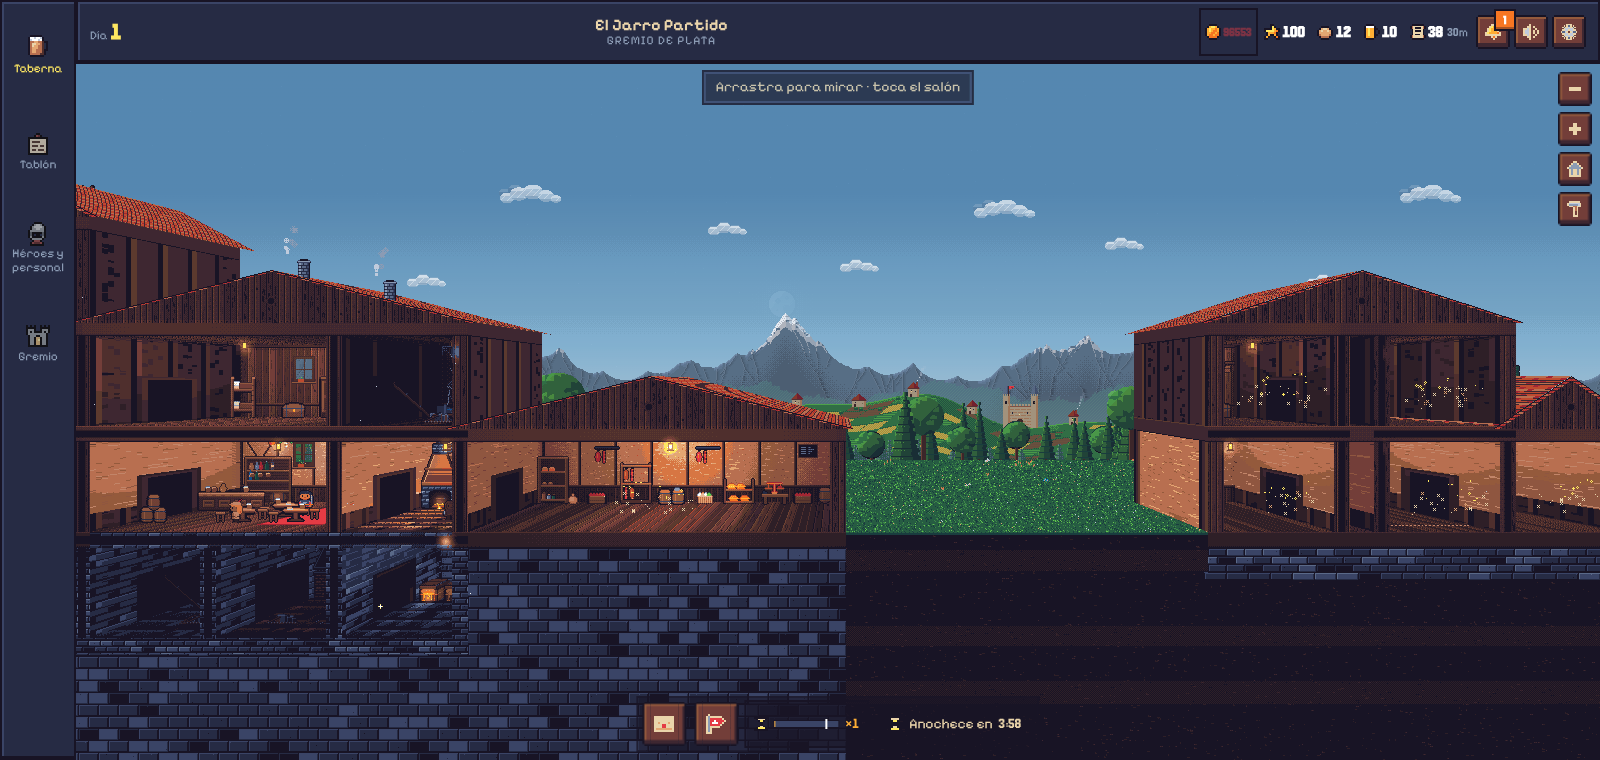
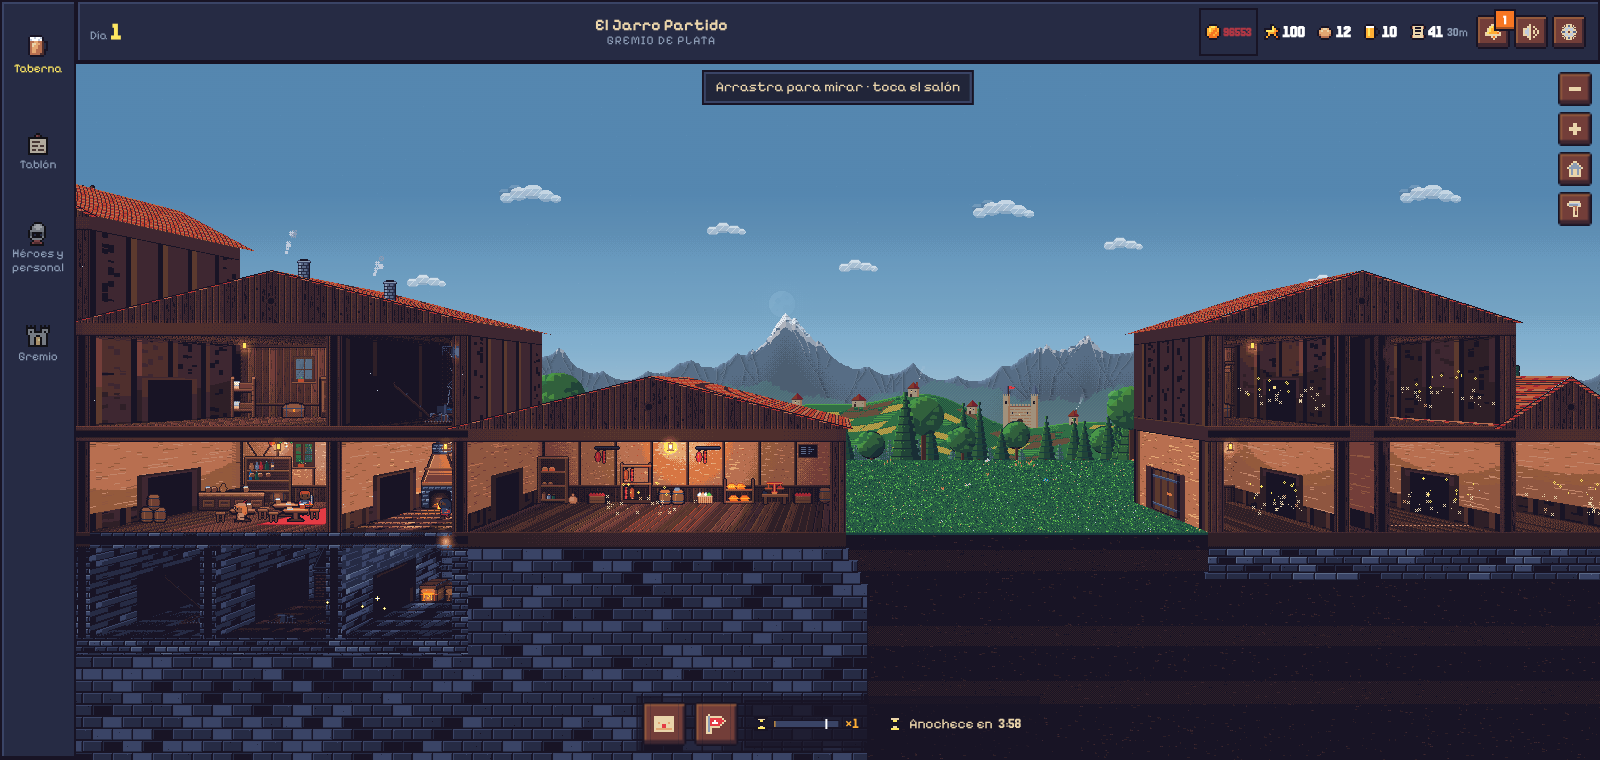
Anexo: la roca asoma por los lados del edificio y puertas al jardín
- La roca de debajo del edificio sale por los dos lados en escalones, cada
  hilada algo más ancha, para que se vea que lo asienta.
- Punto 2: la sala de la planta baja que da al jardín tiene puerta por dentro
  y por fuera; con escalera al borde, en su rellano; sin rellano abajo, la
  escalera tapa el paso y no hay puerta (como `opens` en `cutOff`).

Claude-Session: https://claude.ai/code/session_011Wau2CUcks799q681YrKG8

diff --git a/src/world/rooms/RoomScene.ts b/src/world/rooms/RoomScene.ts
@@ -10,6 +10,7 @@
 import { tinyDigits } from '../../art/digits';
 import { GRASS_FRAMES, grassTuft, type TuftKind } from '../../art/grass';
 import { Rng } from '../../core/rng';
+import { inGarden, isShaft } from '../../core/rooms';
 import {
   BufferGeometry,
   CanvasTexture,
@@ -1267,6 +1268,11 @@ export class RoomScene {
           ),
           sides: { left: [left], right: [right] },
           floor: s.floor,
+          // En el rellano de la planta baja de una escalera al borde, la puerta al jardín.
+          garden: {
+            left: s.floor === 0 && s.steps && inGarden(b, s.s - 1),
+            right: s.floor === 0 && s.steps && inGarden(b, s.s),
+          },
         },
       );
       const inner = interior(s.rect);
@@ -1446,6 +1452,9 @@ export class RoomScene {
     const free = (c: number) =>
       room.floor > 0 && !b.rooms.some((o) => this.covers(o, c, room.floor - 1));
     const back = backWall(room, r.w, r.h, this.salonLook());
+    // Puerta al jardín en la planta baja, si no hay en medio una escalera sin rellano (que tapa
+    // el paso; con rellano, la puerta va en ella). Como `opens` en `cutOff` (`core/rooms.ts`).
+    const gate = (c: number, x: number) => room.floor === 0 && inGarden(b, c) && !isShaft(b, x);
     // Lo tocable que se ha pintado en la pared (en sus píxeles), pasado al mundo.
     const live = room.level > 0 && !(room.works && room.works.kind !== 'extend');
     const tx = r.w / back.w;
@@ -1467,6 +1476,10 @@ export class RoomScene {
       sides,
       floor: room.floor,
       door: room.type === 'recibidor' ? room.level : undefined,
+      garden: {
+        left: gate(room.col - 1, room.col),
+        right: gate(room.col + room.w, room.col + room.w),
+      },
       hang: { left: free(room.col), right: free(room.col + room.w - 1) },
       room,
     });
@@ -1647,6 +1660,8 @@ export class RoomScene {
       floor: number;
       /** La puerta de la calle (en el recibidor), con su nivel. */
       door?: number;
+      /** La puerta al jardín de la planta baja, de cada lado. */
+      garden?: { left: boolean; right: boolean };
       /** Sin sala debajo del hueco de cada lado (en voladizo). */
       hang?: { left: boolean; right: boolean };
       /** La sala (para los acabados de sus lados). */
@@ -1683,7 +1698,7 @@ export class RoomScene {
         r.h,
         doors(o.sides.left),
         `${seed}i`,
-        o.door !== undefined ? [0] : [],
+        o.door !== undefined || o.garden?.left ? [0] : [],
         o.door,
         o.room,
       ),
@@ -1692,7 +1707,17 @@ export class RoomScene {
     );
     this.plane(
       g,
-      mirror(sideTex(theme, r.h, doors(o.sides.right), `${seed}d`, [], 1, o.room)),
+      mirror(
+        sideTex(
+          theme,
+          r.h,
+          doors(o.sides.right),
+          `${seed}d`,
+          o.garden?.right ? [0] : [],
+          1,
+          o.room,
+        ),
+      ),
       [at(x1, yb, D), at(x1, yb, 0), at(x1, yt, 0), at(x1, yt, D)],
       flat,
     );
@@ -1708,14 +1733,14 @@ export class RoomScene {
         const f = o.floor + i;
         const top = floorTop(f) - SLAB;
         const bottom = floorY(f) + (i === 0 && o.hang?.[side] ? SLAB : 0);
-        const withDoor = !doorDone && i === 0;
-        if (withDoor) doorDone = true;
+        const street = !doorDone && i === 0;
+        if (street) doorDone = true;
         const tex = outerSide(
           themeOf(f),
           PITCH,
-          withDoor,
+          street || (i === 0 && !!o.garden?.[side]),
           `${seed}f${side}${i}`,
-          o.door,
+          street ? o.door : 1,
           this.model?.look?.walls,
         );
         if (side === 'left') {

diff --git a/src/world/rooms/textures.ts b/src/world/rooms/textures.ts
@@ -430,14 +430,11 @@ export function facade(L: RoomsLayout, look: FacadeLook = {}, crest?: Crest): Fa
   // la de fuera, y bajo el anexo, sus cimientos (no se excava).
   const garden = L.garden;
   const main = garden ? garden.x - ox : right;
-  // Roca bajo el edificio.
-  stoneWall(buf, left, g + SLAB, main - left, H - g - SLAB, 'roca', {
-    ramp: [P.black, P.navy, P.slate, P.steel],
-    bw: 20,
-    bh: 12,
-  });
+  // Roca bajo el edificio: asoma por los lados en escalones, cada hilada algo más ancha que la
+  // de encima, como una zarpa que lo asienta.
+  const inRock = rockBase(buf, left, main, g + SLAB);
   for (let y = g + 4 * PITCH; y < H; y++)
-    for (let x = left; x < main; x++) if ((x + y) % 3 === 0) buf.set(x, y, P.black);
+    for (let x = 0; x < W; x++) if ((x + y) % 3 === 0 && inRock(x, y)) buf.set(x, y, P.black);
   // Los cimientos, solo bajo lo que está construido en la planta baja del anexo (sus solares
   // vacíos son tierra, como el jardín).
   const built = garden ? groundSpans(L, garden.x + garden.w) : [];
@@ -524,6 +521,48 @@ export function facade(L: RoomsLayout, look: FacadeLook = {}, crest?: Crest): Fa
       run === big ? crest : undefined,
     );
   return { buf, x: ox, y: oy, runs };
+}
+
+/**
+ * La roca de debajo del edificio, de `x0` a `x1` y desde `y` hacia abajo, que asoma por los lados
+ * en escalones (uno por hilada, hasta `REACH`). Devuelve si un punto cae en ella.
+ */
+function rockBase(b: PixelBuffer, x0: number, x1: number, y: number) {
+  const BH = 12;
+  const REACH = 22;
+  const rng = new Rng('zarpa-roca');
+  const rows = Math.ceil((b.h - y) / BH);
+  // Lo que sale cada hilada por la izquierda y por la derecha.
+  const out = Array.from({ length: rows }, (_, i) =>
+    [0, 1].map(() => Math.min(REACH, 4 + i * 6 + rng.int(-1, 2))),
+  ) as [number, number][];
+  const row = (yy: number) => out[Math.min(rows - 1, Math.floor((yy - y) / BH))]!;
+  const inside = (x: number, yy: number) => {
+    if (yy < y || yy >= b.h) return false;
+    const [l, r] = row(yy);
+    return x >= x0 - l && x < x1 + r;
+  };
+  const rock = new PixelBuffer(b.w, b.h);
+  stoneWall(rock, x0 - REACH - 4, y, x1 - x0 + 2 * REACH + 8, b.h - y, 'roca', {
+    ramp: [P.black, P.navy, P.slate, P.steel],
+    bw: 20,
+    bh: BH,
+  });
+  for (let yy = y; yy < b.h; yy++)
+    for (let x = Math.max(0, x0 - REACH); x < Math.min(b.w, x1 + REACH); x++)
+      if (inside(x, yy)) b.set(x, yy, rock.get(x, yy));
+  // Cada escalón: el canto de arriba, a la luz, y el lado de fuera, en sombra.
+  for (let i = 0; i < rows; i++) {
+    const top = y + i * BH;
+    const [l, r] = out[i]!;
+    const [pl, pr] = i ? out[i - 1]! : [0, 0];
+    if (l > pl) b.hline(x0 - l, top, l - pl, P.steel);
+    if (r > pr) b.hline(x1 + pr, top, r - pr, P.steel);
+    const h = Math.min(BH, b.h - top);
+    b.vline(x0 - l, top + 1, h - 1, P.black);
+    b.vline(x1 + r - 1, top + 1, h - 1, P.black);
+  }
+  return inside;
 }
 
 /**

diff --git a/docs/plan-arte.md b/docs/plan-arte.md
@@ -141,8 +141,13 @@ npm run build`.
    - [x] 1. Bajo tierra (`facade` en `textures.ts`): la roca solo bajo el edificio; bajo el
          jardín, tierra con su borde de hierba como la de fuera; bajo el anexo, cimientos de
          sillares con zarpa, solo donde hay sala o escalera en la planta baja (sus solares
-         vacíos, tierra). Capturas en `capturas/anexo/`.
-   - [ ] 2. Puertas al jardín en las salas de la planta baja que dan a él.
+         vacíos, tierra). Capturas en `capturas/anexo/` (#105).
+   - [x] 1b. La roca asoma por los lados del edificio en escalones (`rockBase`), cada hilada
+         algo más ancha, hasta 22 píxeles: que se vea que lo asienta (el usuario, tras #105).
+   - [x] 2. Puertas al jardín: la sala de la planta baja que da a él la tiene por dentro (como
+         la del recibidor) y por fuera; con escalera al borde, en su rellano; si la escalera no
+         tiene rellano abajo, no hay puerta (como `opens` en `cutOff`). Opción `garden` de `box`
+         en `RoomScene.ts`.
    - [ ] 3. El jardín liso (hierba del patio, sin la maleza del terreno).
    - [ ] 4. Las piezas de `GardenLook`.
    - [ ] 5. El claustro.
